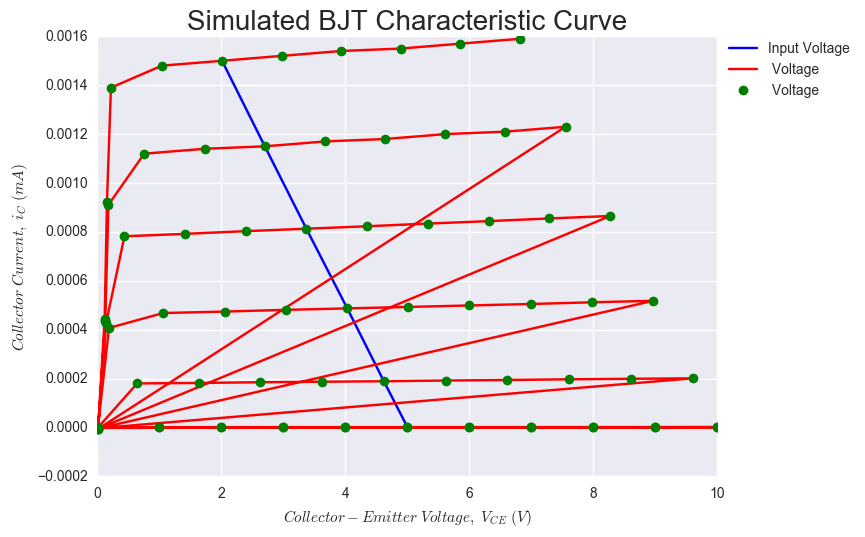
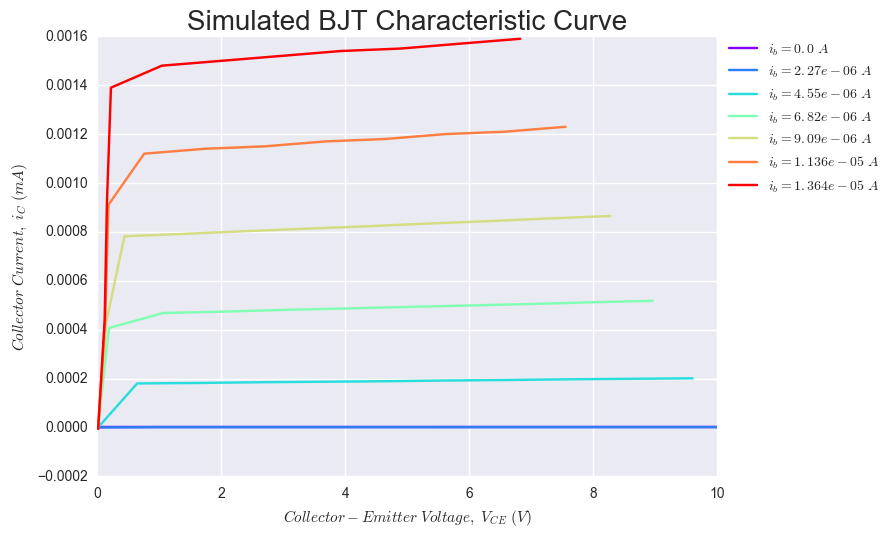
added simulated plot

diff --git a/labs/lab04/scripts/plotter.py b/labs/lab04/scripts/plotter.py
@@ -2,6 +2,7 @@ from os.path import abspath, dirname
 from os.path import join as path_join
 
 import matplotlib.pyplot as plt
+from numpy import arange, linspace
 from pandas import read_csv
 import seaborn as sns
 
@@ -16,19 +17,23 @@ def import_dataset(dataset):
     return df
 
 
-def plot_waves(v_bb, v_cc, v_ce, i_c, title, fig_name):
+def plot_waves(df, title, fig_name):
 
     sns.set_style(style='darkgrid')
     fig, ax = plt.subplots(nrows=1, ncols=1)
 
+    color = iter(plt.cm.rainbow(linspace(0, 1, 7)))
+
+    for i in arange(0, 3.5, 0.5):
+        new_df = df[df['v_bb'] == i]
+        i_b = str(round(i / 220000, 8))
+        plt.plot(new_df['v_ce'], new_df['i_c'],
+                 c=next(color),
+                 label=r'$i_b = {}\ A$'.format(i_b))
+
     plt.title(title, fontsize=20)
     plt.ylabel(r'$Collector\ Current,\ i_{C}\ (mA)$')
     plt.xlabel(r'$Collector-Emitter\ Voltage,\ V_{CE}\ (V)$')
-
-    plt.plot(v_bb, v_cc, '-b', label='Input Voltage')
-    plt.plot(v_ce, i_c, '-r', label=' Voltage')
-    plt.plot(v_ce, i_c, 'og', label=' Voltage')
-
     plt.xlim(0, 10)
     lgd = ax.legend(bbox_to_anchor=(1.01, 1), loc=2, borderaxespad=0.)
 
@@ -46,12 +51,10 @@ if __name__ == '__main__':
         df.drop('neg i_c', axis=1, inplace=True)
         df.to_csv(path_join(BASE_DIR, 'data', 'c.csv'), index=False)
 
-    # v_bb, v_cc, v_ce, i_c = list(df)
-    # new_df = df[df['v_cc'] == 5]
-    # print new_df.head()
+    plot_waves(df, 'Simulated BJT Characteristic Curve', 'test')
 
-    plot_waves(new_df[v_ce], new_df[i_c], df[v_ce], df[i_c],
-               'Simulated BJT Characteristic Curve', 'test')
+    # new_df = df[df['v_cc'] == 10]
+    # print new_df.head()
 
     # df = import_dataset('a.csv')
     # df['i_c'] = abs(df['v_cc'] - df['v_ce']) / 2200
